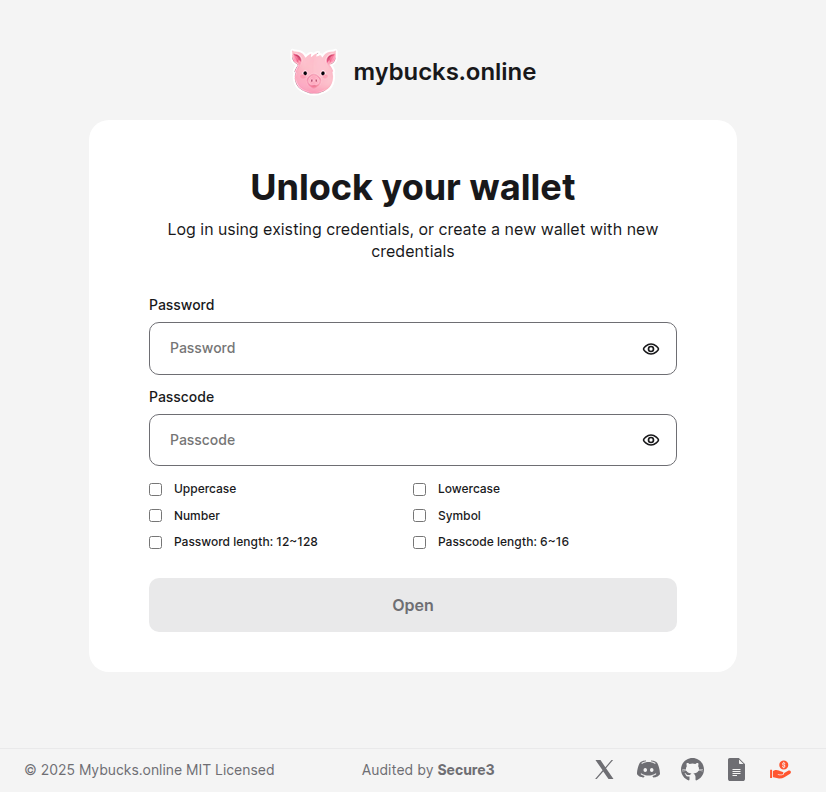
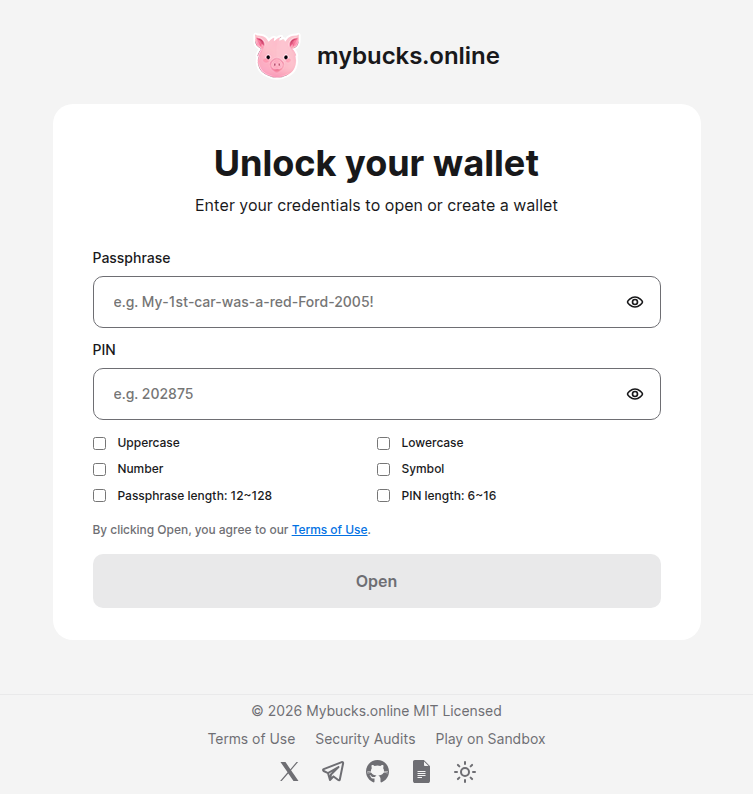
Add 'e.g.' prefix to credential input placeholders (#40)
* add 'e.g.' into passphrase, pin placeholders

* update screenshots in README

* update screenshot in README

diff --git a/src/pages/Signin/index.jsx b/src/pages/Signin/index.jsx
@@ -308,7 +308,7 @@ const SignIn = () => {
               <Input
                 id="passphrase"
                 type={showPassphrase ? "text" : "password"}
-                placeholder="My-1st-car-was-a-red-Ford-2005!"
+                placeholder="e.g. My-1st-car-was-a-red-Ford-2005!"
                 disabled={disabled}
                 value={passphrase}
                 maxLength={PASSPHRASE_MAX_LENGTH}
@@ -338,7 +338,7 @@ const SignIn = () => {
               <Input
                 id="pin"
                 type={showPin ? "text" : "password"}
-                placeholder="202875"
+                placeholder="e.g. 202875"
                 disabled={disabled}
                 value={pin}
                 maxLength={PIN_MAX_LENGTH}

diff --git a/README.md b/README.md
@@ -70,11 +70,11 @@ const HASH_OPTIONS = {
 async function generatePrivateKey(passphrase, pin) {
   const salt = `${passphrase.slice(-4)}${pin}`
 
-  const passphraseBuffer = Buffer.from(passphrase);
+  const passwordBuffer = Buffer.from(passphrase);
   const saltBuffer = Buffer.from(salt);
 
   const hashBuffer = await scrypt(
-    passphraseBuffer,
+    passwordBuffer,
     saltBuffer,
     HASH_OPTIONS.N,
     HASH_OPTIONS.r,
